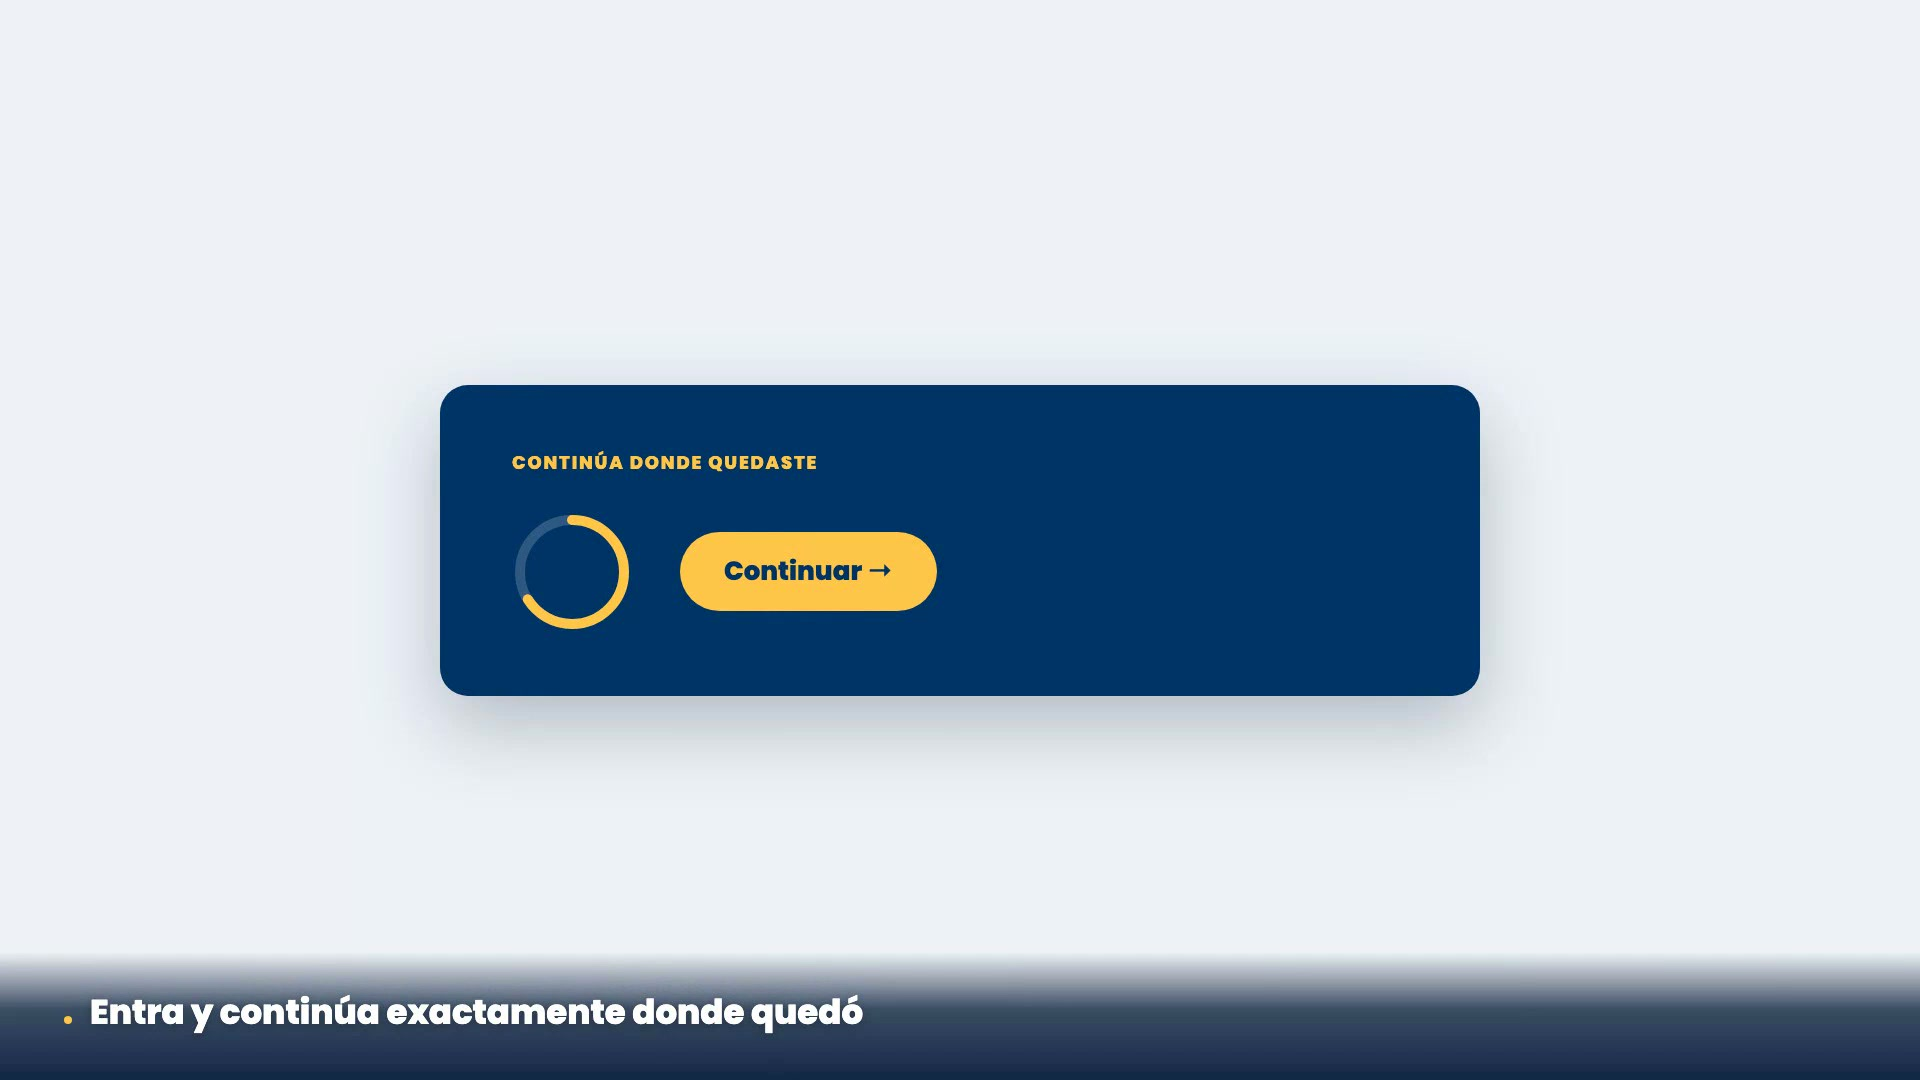
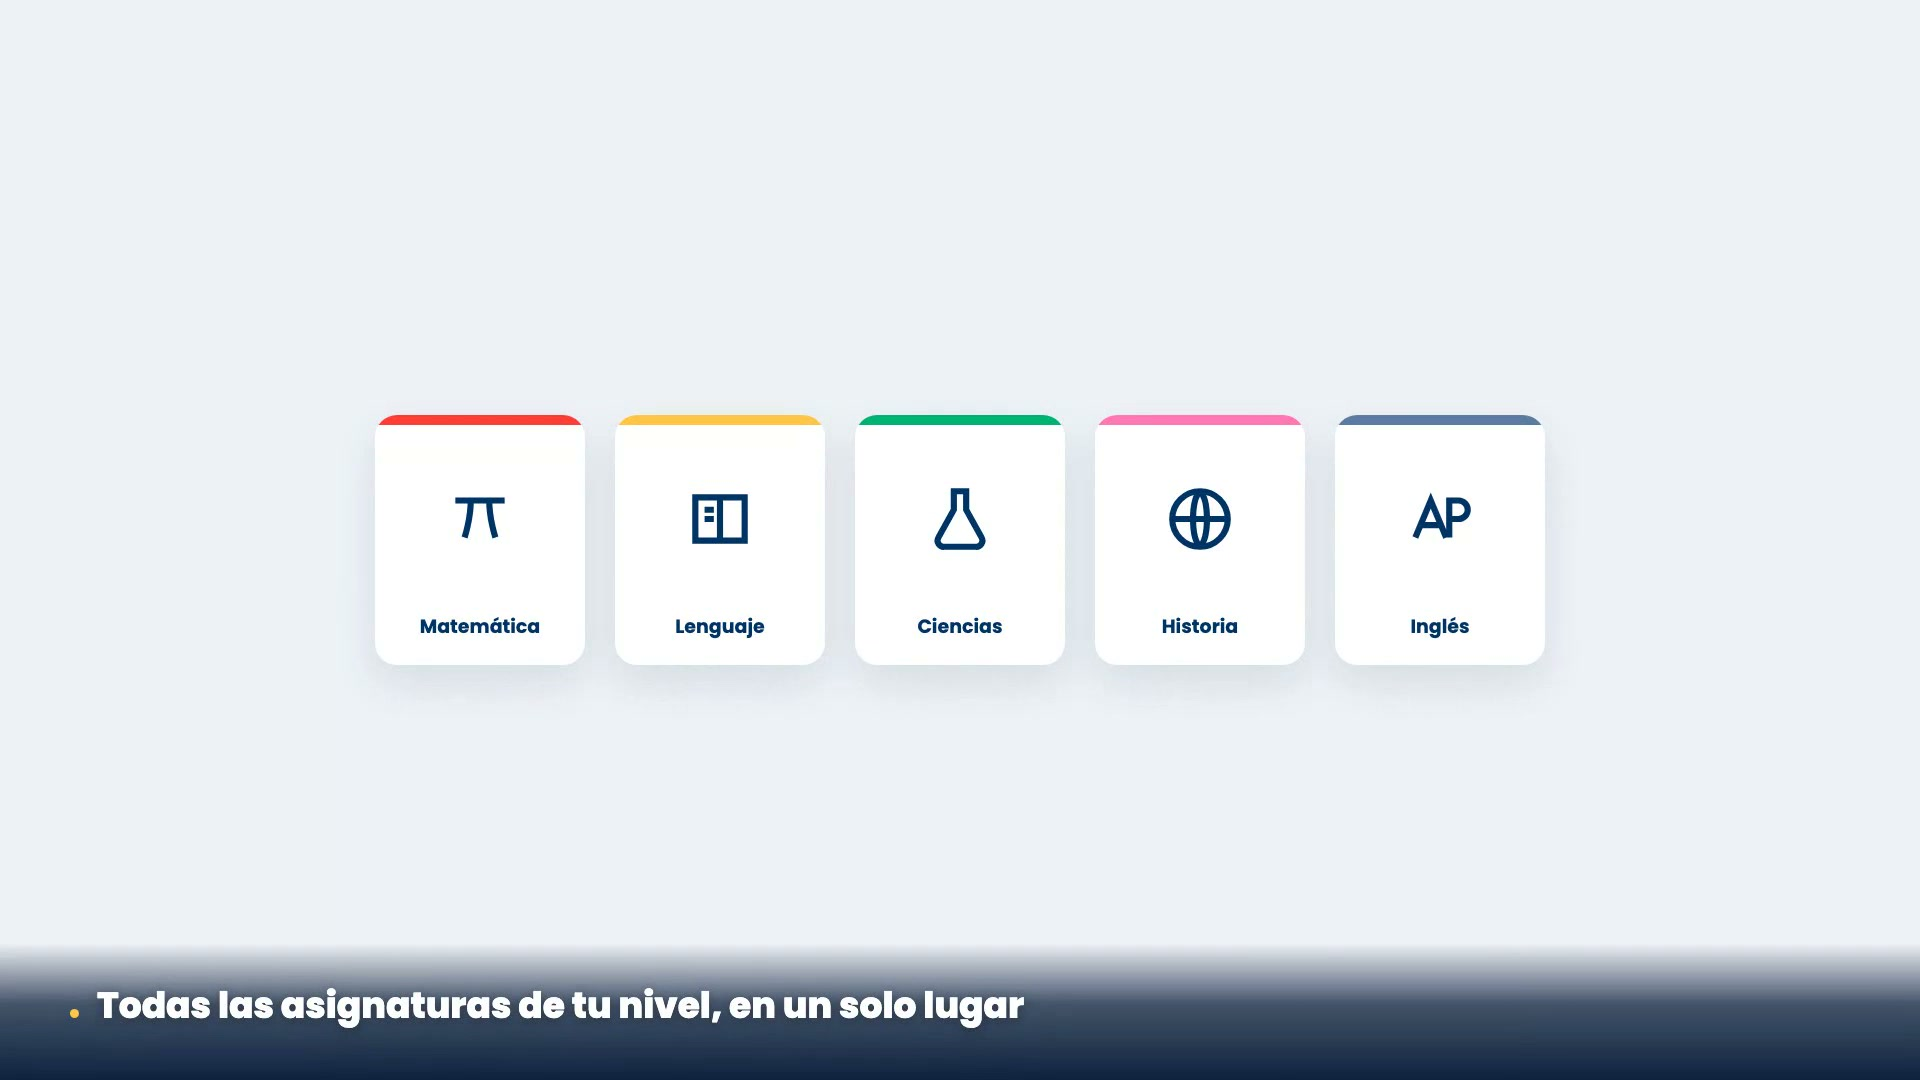
feat(home): tour simbólico v2 — más características y animaciones más ricas
Amplía de 6 a 10 escenas, cada una con animación propia que arranca
cuando la voz nombra la característica (no antes):

1. Sin clases en vivo: grid de videollamadas tachado en rojo
2. Todas las asignaturas: 5 tarjetas con íconos, entrada spring escalonada
3. Formatos: video/pódcast/lectura/infografía/evaluación con glow secuencial
4. Aprendizaje por Dominio: checklist con barras que se llenan + candado
5. Refuerzo (NUEVO): estado ámbar "te costó" → tarjeta de apoyo → verde
6. Calendario: línea que se dibuja + nodos que se encienden en secuencia
7. Tutor (NUEVO): avatar con anillo pulsante + burbujas de chat
8. Portal familia: KPIs que cuentan hacia arriba + sparkline dibujado
9. MINEDUC (NUEVO): sello con anillo que se traza + check estampado
10. Cierre de marca

Todo HTML/CSS/SVG propio (sin screenshots reales), grabado con
Playwright 1920x1080. Narración de 9 líneas (voz Catalina) + música.
Fundido a negro al final. 46.7s.

Changed region(s): [[0.1875, 0.3361, 0.8125, 0.7028], [0.0, 0.8861, 0.5312, 0.9472]]

diff --git a/client/src/pages/Home.tsx b/client/src/pages/Home.tsx
@@ -754,7 +754,7 @@ export default function Home() {
             <div style={{ margin: "0 auto 48px", maxWidth: 880 }}>
               <div style={{ display: "flex", flexWrap: "wrap", alignItems: "center", gap: 12, margin: "0 0 14px" }}>
                 <span style={{ display: "inline-flex", alignItems: "center", gap: 7, background: NAVY, color: "#fff", fontSize: 12, fontWeight: 700, textTransform: "uppercase", letterSpacing: "0.06em", padding: "6px 12px", borderRadius: 999 }}>
-                  <Play style={{ width: 13, height: 13 }} strokeWidth={3} /> Tour en 33 segundos
+                  <Play style={{ width: 13, height: 13 }} strokeWidth={3} /> Tour animado · 47 segundos
                 </span>
                 <span style={{ fontSize: 14, color: TEXT }}>Lo que ve tu hijo y lo que ves tú como apoderado — al grano.</span>
               </div>